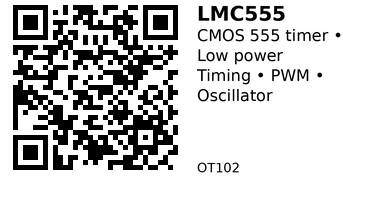
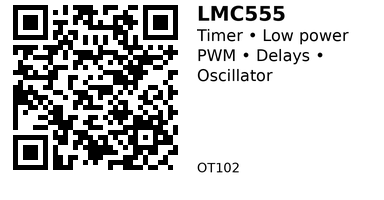
Refactor OT1xx: Move Logic-ICs to root and improve documentation
**Structure changes:**
- Move Logic-ICs from Other/Logic-ICs/ to root (Logic-ICs/)
- Remove "Other" folder (inconsistent with root-level components)

**Content improvements:**
- Remove duplicate wiring/use cases from family index (details in component pages)
- Add clear separation before {{children()}} macro
- Fix markdown list rendering (add blank lines after headers)

**OT102 (LMC555) improvements:**
- Sticker: "Timer • Low power" (remove redundant "CMOS 555")
- Sticker: "PWM • Delays • Oscillator" (remove redundant "Timing")
- Remove technical tags: monostable, astable (not DIYer-friendly)
- Fix duty cycle formatting (multi-line nested list)

🤖 Generated with [Claude Code](https://claude.com/claude-code)

Changed region(s): [[0.5, 0.24, 0.8438, 0.42], [0.5, 0.12, 0.9062, 0.21], [0.5, 0.45, 0.7188, 0.51]]

diff --git a/docs/components/Logic-ICs/index.md b/docs/components/Logic-ICs/index.md
@@ -1,0 +1,61 @@
+---
+id: OT100
+name: Logic ICs
+category: OT
+tags:
+  - family
+  - logic-ic
+  - shift-register
+  - timer
+  - digital
+short: "Logic ICs • Shift register • Timer"
+use: "GPIO expansion • Timing circuits"
+---
+
+# Logic ICs - OT100
+
+General-purpose digital logic integrated circuits for expanding GPIO pins, generating timing signals, and building digital control circuits without microcontrollers.
+
+## Comparison
+
+| Component | Type | Function | Supply Voltage | Key Feature | Best For |
+|-----------|------|----------|----------------|-------------|----------|
+| [OT101](OT101.md) (74HC595) | Shift Register | Serial-to-parallel (8 outputs) | 2.0-6.0V | Cascadable, 3-pin control | GPIO expansion, LED control |
+| [OT102](OT102.md) (LMC555) | Timer | Monostable/Astable | 1.5-12V | Low power CMOS, pin-compatible with NE555 | Timing circuits, PWM, oscillators |
+
+## Selection Guide
+
+**Choose OT101 (74HC595 Shift Register) when:**
+
+- Need to expand GPIO pins (control 8+ outputs with only 3 microcontroller pins)
+- Driving multiple LEDs, 7-segment displays, or LED matrices
+- Want to cascade for 16, 24, 32+ outputs (virtually unlimited expansion)
+- Need synchronized output updates (all pins latch simultaneously)
+
+**Choose OT102 (LMC555 Timer) when:**
+
+- Need timing delays or oscillating waveforms without microcontroller code
+- Generating PWM signals, clock pulses, or pulse trains
+- Low-power battery applications (CMOS draws ~100 µA vs ~5 mA for bipolar 555)
+- Simple standalone circuits (LED blinker, buzzer, switch debouncer)
+- Drop-in replacement for classic NE555/LM555 (pin-compatible)
+
+## Common Applications
+
+**GPIO Expansion (74HC595):**
+
+- LED matrices: Control 8×8 = 64 LEDs with just 5-6 pins (cascaded shift registers + multiplexing)
+- 7-segment displays: Drive multiple digits using only 3 control pins
+- Relay banks: Control 8-16 relays for home automation
+
+**Timing & Oscillation (LMC555):**
+
+- Astable mode: LED blinker, clock generator, PWM dimming, tone generation
+- Monostable mode: Timed delays, switch debouncing, pulse stretching
+- Low-power advantage: CMOS draws 50× less current than bipolar 555 (ideal for battery projects)
+
+---
+
+## Components in This Family
+
+{{ children() }}

diff --git a/docs/components/Logic-ICs/OT102.md b/docs/components/Logic-ICs/OT102.md
@@ -7,13 +7,11 @@ tags:
   - timer
   - oscillator
   - pwm
-  - monostable
-  - astable
   - low-power
   - esp32-compatible
   - arduino-compatible
-short: "CMOS 555 timer • Low power"
-use: "Timing • PWM • Oscillator"
+short: "Timer • Low power"
+use: "PWM • Delays • Oscillator"
 ---
 
 # LMC555 CMOS 555 Timer - OT102
@@ -77,7 +75,11 @@ GND (1) ----- GND
 ```
 
 **Frequency:** f = 1.44 / ((R1 + 2×R2) × C1)
-**Duty Cycle:** HIGH time = 0.693 × (R1 + R2) × C1, LOW time = 0.693 × R2 × C1
+
+**Duty Cycle:**
+
+- HIGH time = 0.693 × (R1 + R2) × C1
+- LOW time = 0.693 × R2 × C1
 
 **Example values:**
 - R1 = 1kΩ, R2 = 10kΩ, C1 = 0.1µF → f ≈ 688 Hz

diff --git a/docs/registry/index.md b/docs/registry/index.md
@@ -7,7 +7,7 @@ hide:
 # Component ID Registry
 
 _This page is generated from `components/stickers/id_registry_simple.yaml`._  
-**Generated:** 2025-11-25T00:53:56Z
+**Generated:** 2025-11-25T01:06:58Z
 
 ## Categories
 | Code | Title | Count | Next ID | Next by family |
